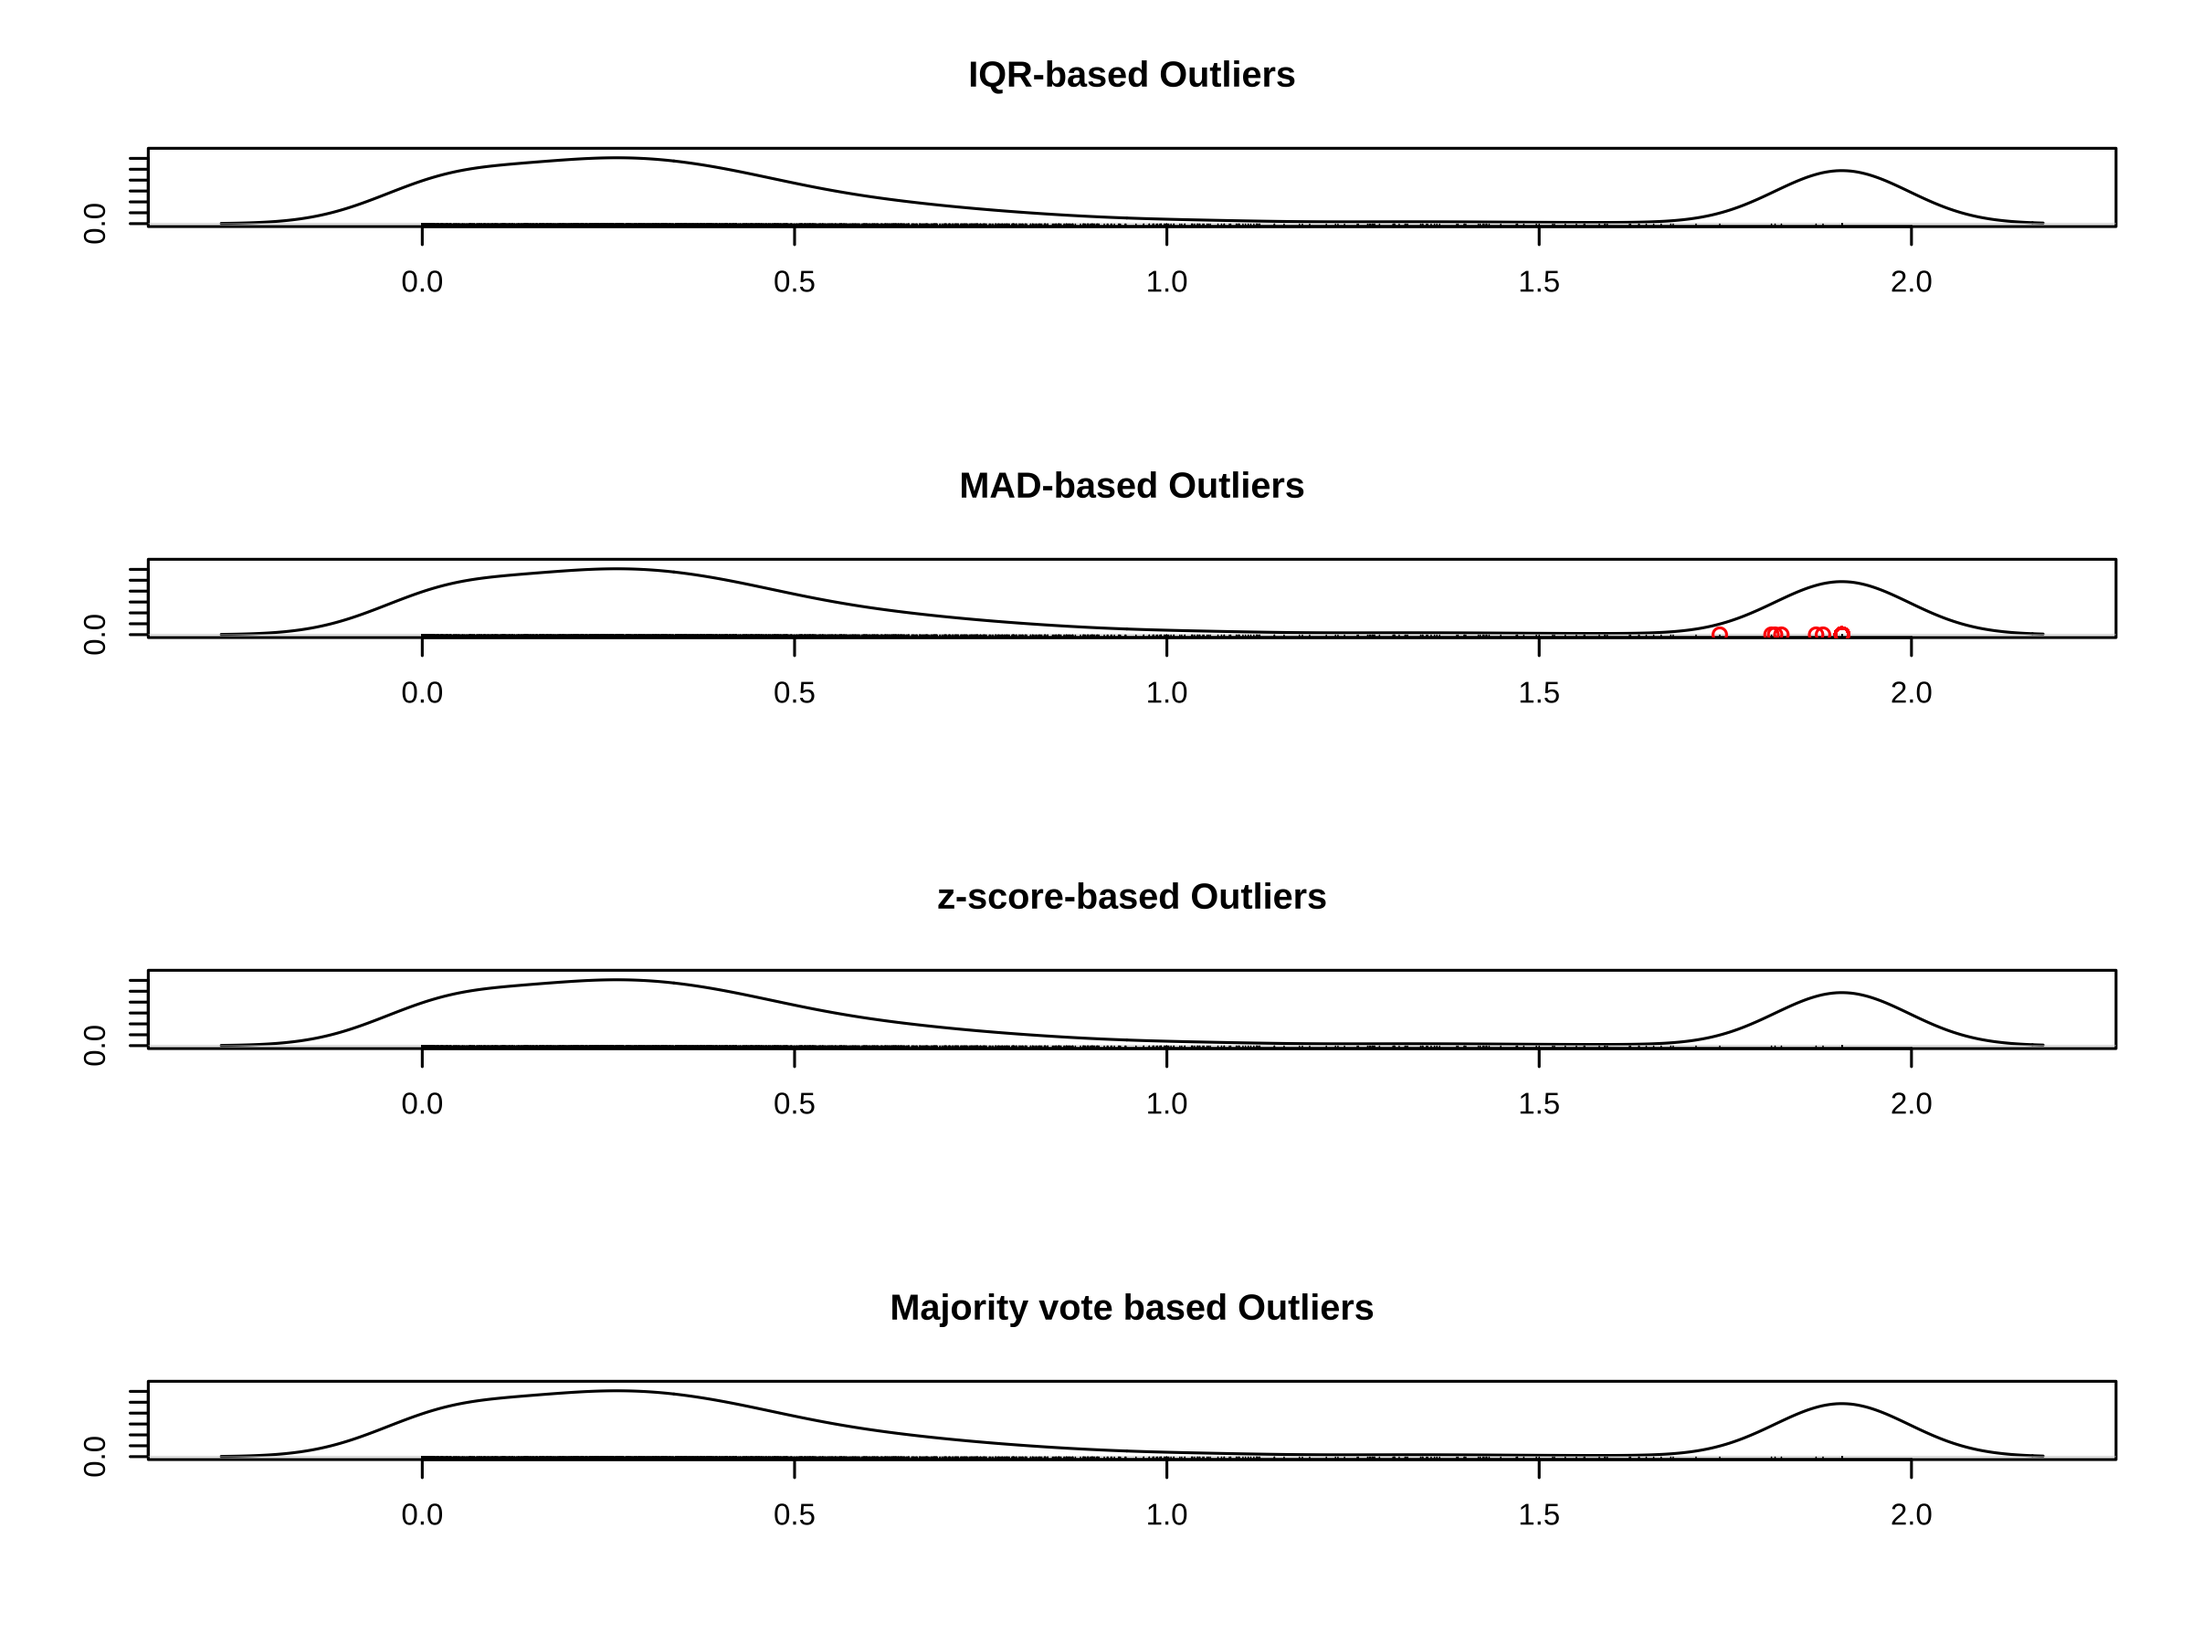
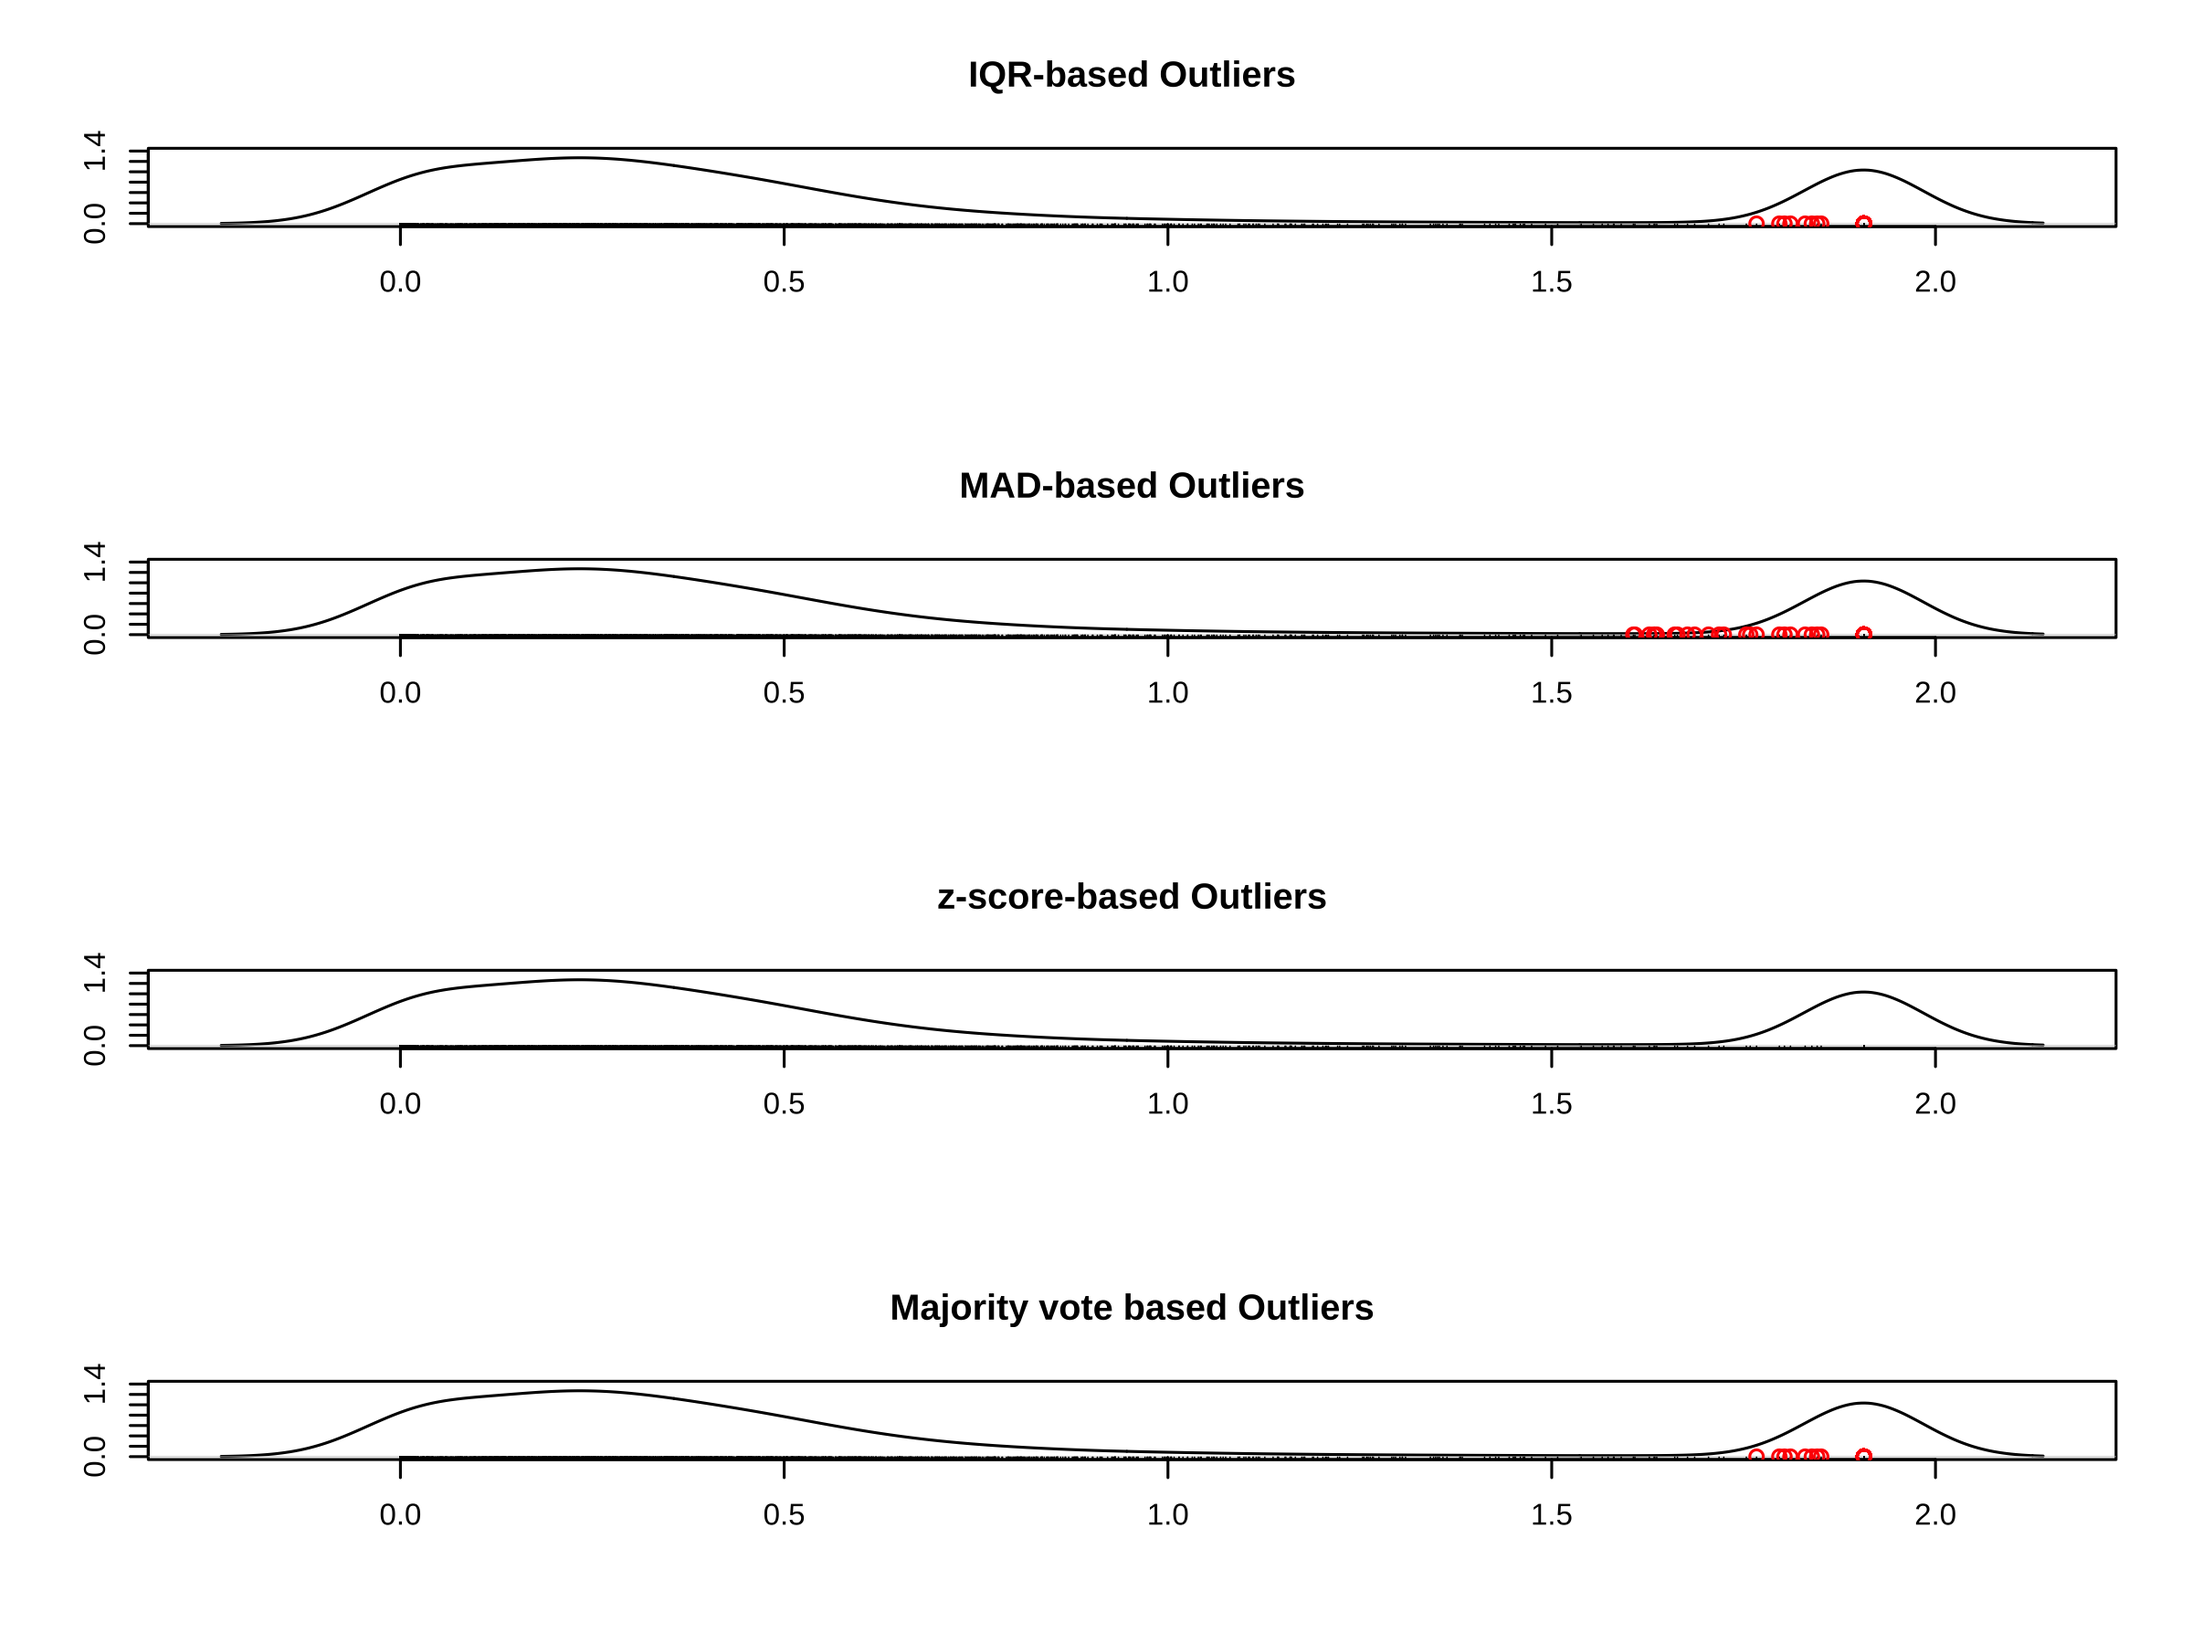
Add files via upload

diff --git a/EDA&FE/EDA&FE(part 1)/V1-EDA&Feature Engineering(part 1).md b/EDA&FE/EDA&FE(part 1)/V1-EDA&Feature Engineering(part 1).md
@@ -14,45 +14,13 @@ library(readr)
 library(rpart)
 library(rpart.plot)
 library(dlookr)
-```
-
-```
-## 
-## Attaching package: 'dlookr'
-```
-
-```
-## The following object is masked from 'package:base':
-## 
-##     transform
-```
-
-```r
 library(tidyverse)
-```
-
-```
-## ── Attaching core tidyverse packages ───────────────────────────────────────────── tidyverse 2.0.0 ──
-## ✔ dplyr     1.1.3     ✔ purrr     1.0.2
-## ✔ forcats   1.0.0     ✔ stringr   1.5.0
-## ✔ ggplot2   3.4.3     ✔ tibble    3.2.1
-## ✔ lubridate 1.9.3     ✔ tidyr     1.3.0
-```
-
-```
-## ── Conflicts ─────────────────────────────────────────────────────────────── tidyverse_conflicts() ──
-## ✖ tidyr::extract() masks dlookr::extract()
-## ✖ dplyr::filter()  masks stats::filter()
-## ✖ dplyr::lag()     masks stats::lag()
-## ℹ Use the conflicted package (<http://conflicted.r-lib.org/>) to force all conflicts to become errors
-```
-
-```r
 library(conflicted)
 conflicts_prefer("tidyr"::extract, "tidyr"::extract)
 ```
 
 ```
+## [conflicted] Removing existing preference.
 ## [conflicted] Will prefer tidyr::extract over any other package.
 ## [conflicted] Removing existing preference.
 ## [conflicted] Will prefer tidyr::extract over any other package.
@@ -63,7 +31,9 @@ conflicts_prefer("dplyr"::filter, "dplyr"::lag)
 ```
 
 ```
+## [conflicted] Removing existing preference.
 ## [conflicted] Will prefer dplyr::filter over any other package.
+## [conflicted] Removing existing preference.
 ## [conflicted] Will prefer dplyr::lag over any other package.
 ```
 
@@ -531,7 +501,7 @@ mad_based_outlier <- function(data, thresh = 3.5){
   return(modified_z_scores>thresh)
 }
 
-z_score<- function(data, threshold=1.96){
+z_score_outlier<- function(data, threshold=1.96){
   std=sd(data)
   mean=mean(data)
   z <- abs(data - mean)/std
@@ -541,7 +511,7 @@ z_score<- function(data, threshold=1.96){
 outlierVote <- function(data, mad_thresh = 3.5, z_score_thresh=1.96) {
   ibo <- IQR_based_outlier(data)
   mbo <- mad_based_outlier(data, mad_thresh)
-  zso <- z_score(data, z_score_thresh)
+  zso <- z_score_outlier(data, z_score_thresh)
   combined <- (ibo & mbo) | (ibo & zso) | (mbo & zso)
   return(combined)
 }
@@ -549,7 +519,7 @@ outlierVote <- function(data, mad_thresh = 3.5, z_score_thresh=1.96) {
 
 plotOutlier <- function(x) {
   par(mfrow = c(4, 1))  # Set up 4 subplots in a vertical layout
-  funcs <- list(IQR_based_outlier, mad_based_outlier, z_score, outlierVote)
+  funcs <- list(IQR_based_outlier, mad_based_outlier, z_score_outlier, outlierVote)
   titles <- c('IQR-based Outliers', 'MAD-based Outliers', 'z-score-based Outliers', 'Majority vote based Outliers')
   for (i in 1:length(funcs)) {
     outliers <- x[funcs[[i]](x)]
@@ -629,17 +599,6 @@ sum(is.na(df$monthlyincome))
 # Findings: A majority of 'DebtRatio' outliers correspond to rows with missing 'Monthly Income'
 if (!requireNamespace("VennDiagram", quietly = TRUE)) {install.packages("VennDiagram")}
 library(VennDiagram)
-```
-
-```
-## Loading required package: grid
-```
-
-```
-## Loading required package: futile.logger
-```
-
-```r
 monthlyincome_missing <- is.na(df$monthlyincome)
 #Identify how many rows of data contain both debtratio outliers and monthly income missing values
 overlapping <- debtratio_outlier & monthlyincome_missing
@@ -844,6 +803,7 @@ summary(df$revolvingutilizationofunsecuredlines)
 
 ```r
 # Plot outliers
+set.seed(3011)
 sample_data <- df$debtratio[sample(nrow(df), 5000)]
 plotOutlier(sample_data)
 ```
@@ -1212,13 +1172,6 @@ if (!requireNamespace("devtools", quietly = TRUE)) {install.packages("devtools")
 if (!requireNamespace("ggmosaic", quietly = TRUE)) {install.packages("ggmosaic")}
 if (!requireNamespace("patchwork", quietly = TRUE)) {install.packages("patchwork")}
 library(devtools)
-```
-
-```
-## Loading required package: usethis
-```
-
-```r
 library(ggmosaic)
 library(patchwork)
 df$age_group <- as.character(df$age_group)
